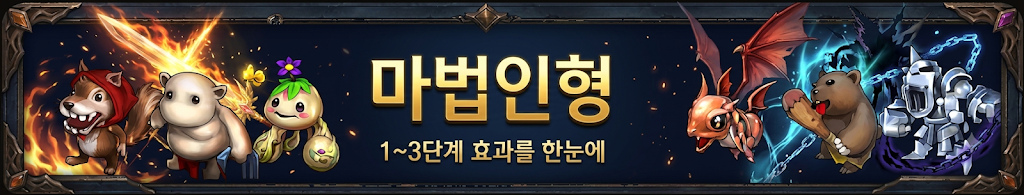
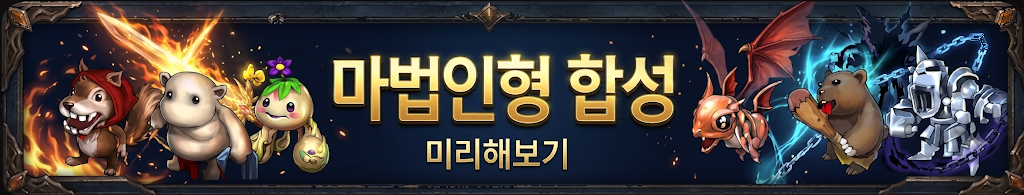
마법인형 버튼 이미지를 합성 미리해보기 배너로 바꿉니다.

diff --git a/guide/index.html b/guide/index.html
@@ -240,7 +240,7 @@
         <a class="speed-banner" href="stat-dex.html"><img src="btn-dex.jpg" alt="덱스 DEX 추타 명중"></a>
         <button type="button" class="speed-banner js-soon"><img src="btn-int.jpg" alt="인트 INT 마댐 SP 명중"></button>
       </div>
-      <a class="tool" href="dolls.html"><img src="btn-doll.png" alt="마법인형"></a>
+      <a class="tool" href="dolls.html"><img src="btn-doll.png?v=2" alt="마법인형 합성 미리해보기"></a>
       <a class="yt feedback-open" href="feedback.html">피드백 게시판</a>
     </div>
     <p class="ad-contact">
